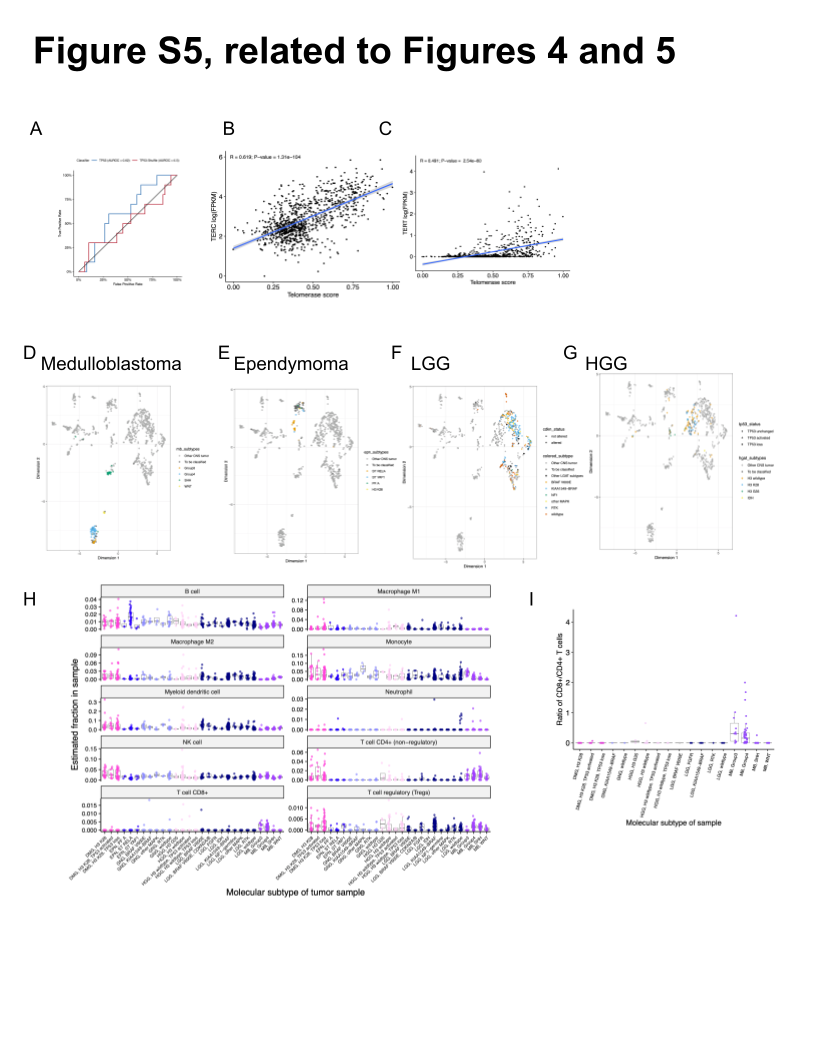
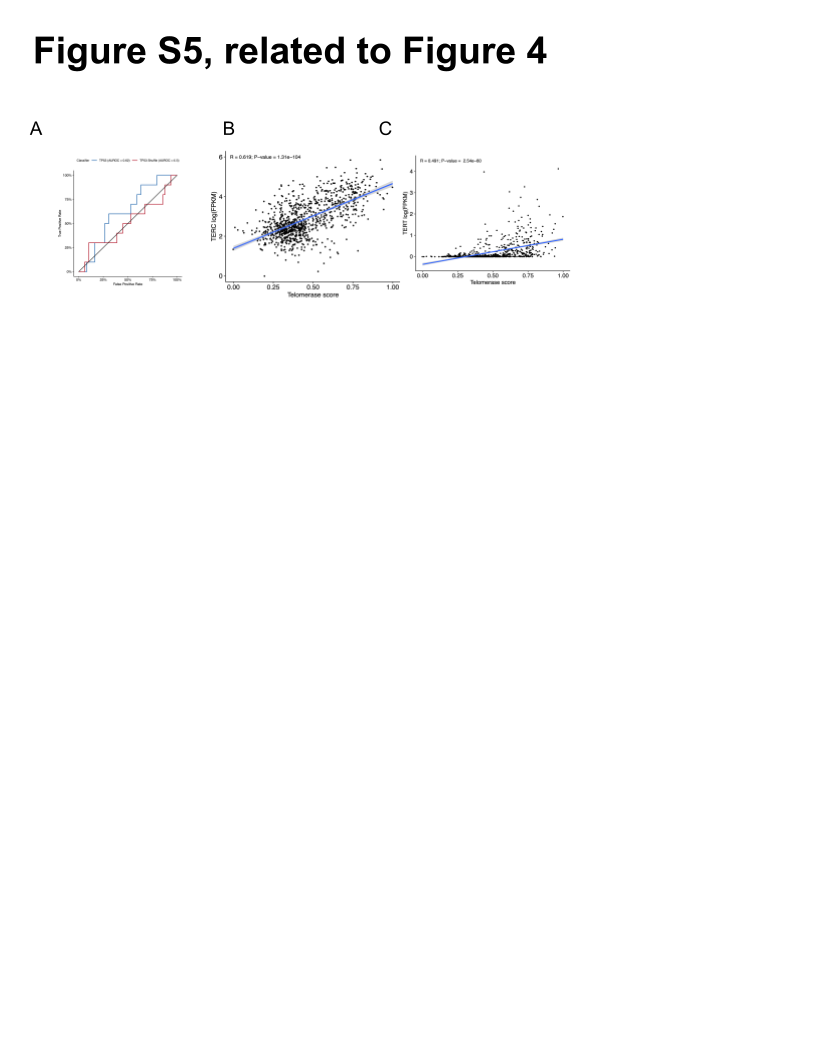
update S5, add S6

diff --git a/content/07.supplemental.md b/content/07.supplemental.md
@@ -8,7 +8,9 @@
 
 ![**Related to Figure 3.** (A) Sample-specific RefSig signature weights across cancer groups ordered by decreasing Signature 1 exposure. (B) Proportion of Signature 1 plotted by phase of therapy for each cancer group.](https://raw.githubusercontent.com/AlexsLemonade/OpenPBTA-analysis/3ea3f6fe0b163741b08e5dd112cdbfaa6fd3560a/figures/pngs/figureS4.png?sanitize=true){#fig:S4 tag="S4" width="7in"}
 
-![**Related to Figure 4**. (A) Receiver Operating Characteristic for _TP53_ classifier run on FPKM of poly-A RNA-Seq samples. Correlation plots for telomerase scores (EXTEND) with RNA expression of _TERT_ (B) and _TERC_ (C). First two dimensions from UMAP of sample transcriptome data with points colored by `molecular_subtype` for medulloblastoma (D), ependymoma (E), low-grade glioma (F), and high-grade diffuse astrocytic tumors (G). Box plots of quanTIseq estimates of immune cell proportions in histologies with more than one molecular subtypes with N >=3.](images/supplement/Figure-S5.png){#fig:S5 tag="S5" width="7in"}
+![**Related to Figure 4**. (A) Receiver Operating Characteristic for _TP53_ classifier run on FPKM of poly-A RNA-Seq samples. Correlation plots for telomerase scores (EXTEND) with RNA expression of _TERT_ (B) and _TERC_ (C).](images/supplement/Figure-S5.png){#fig:S5 tag="S5" width="7in"}
+
+![**Related to Figure 5**. First two dimensions from UMAP of sample transcriptome data with points colored by `molecular_subtype` for medulloblastoma (A), ependymoma (B), low-grade glioma (C), and high-grade diffuse astrocytic tumors (D). (E) Box plots of quanTIseq estimates of immune cell fractions in histologies with more than one molecular subtype with N >=3. (F) Box plots of the ratio of immune cell fractions of CD8+ to CD4+ T cells in histologies with more than one molecular subtype with N >=3. ](images/supplement/Figure-S6.png){#fig:S5 tag="S6" width="7in"}
 
 [**Table S1. Related to Figure 1.**](https://github.com/AlexsLemonade/OpenPBTA-analysis/blob/master/tables/results/TableS1-histologies.xlsx)
 Table of specimens and associated metadata, clinical data, and histological data utilized in the OpenPBTA project.
